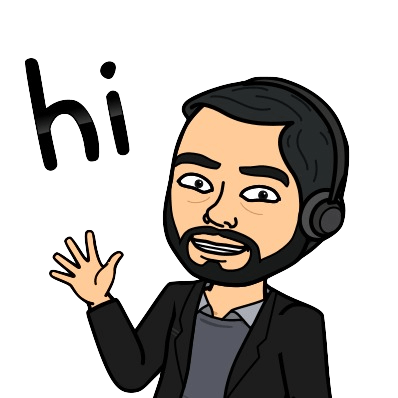
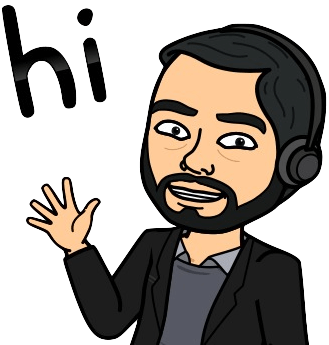
removed unused image

diff --git a/public/index.html b/public/index.html
@@ -16,7 +16,7 @@
         <div class="row about-me">
           <div class="col-6">
             <div class="about-me-image-container">
-              <img class="responsive-image bitmoji" src="images/bitmoji-blazer copy.png"/>
+              <img class="responsive-image bitmoji" src="images/bitmoji-blazer.png"/>
             </div>
           </div>
 
